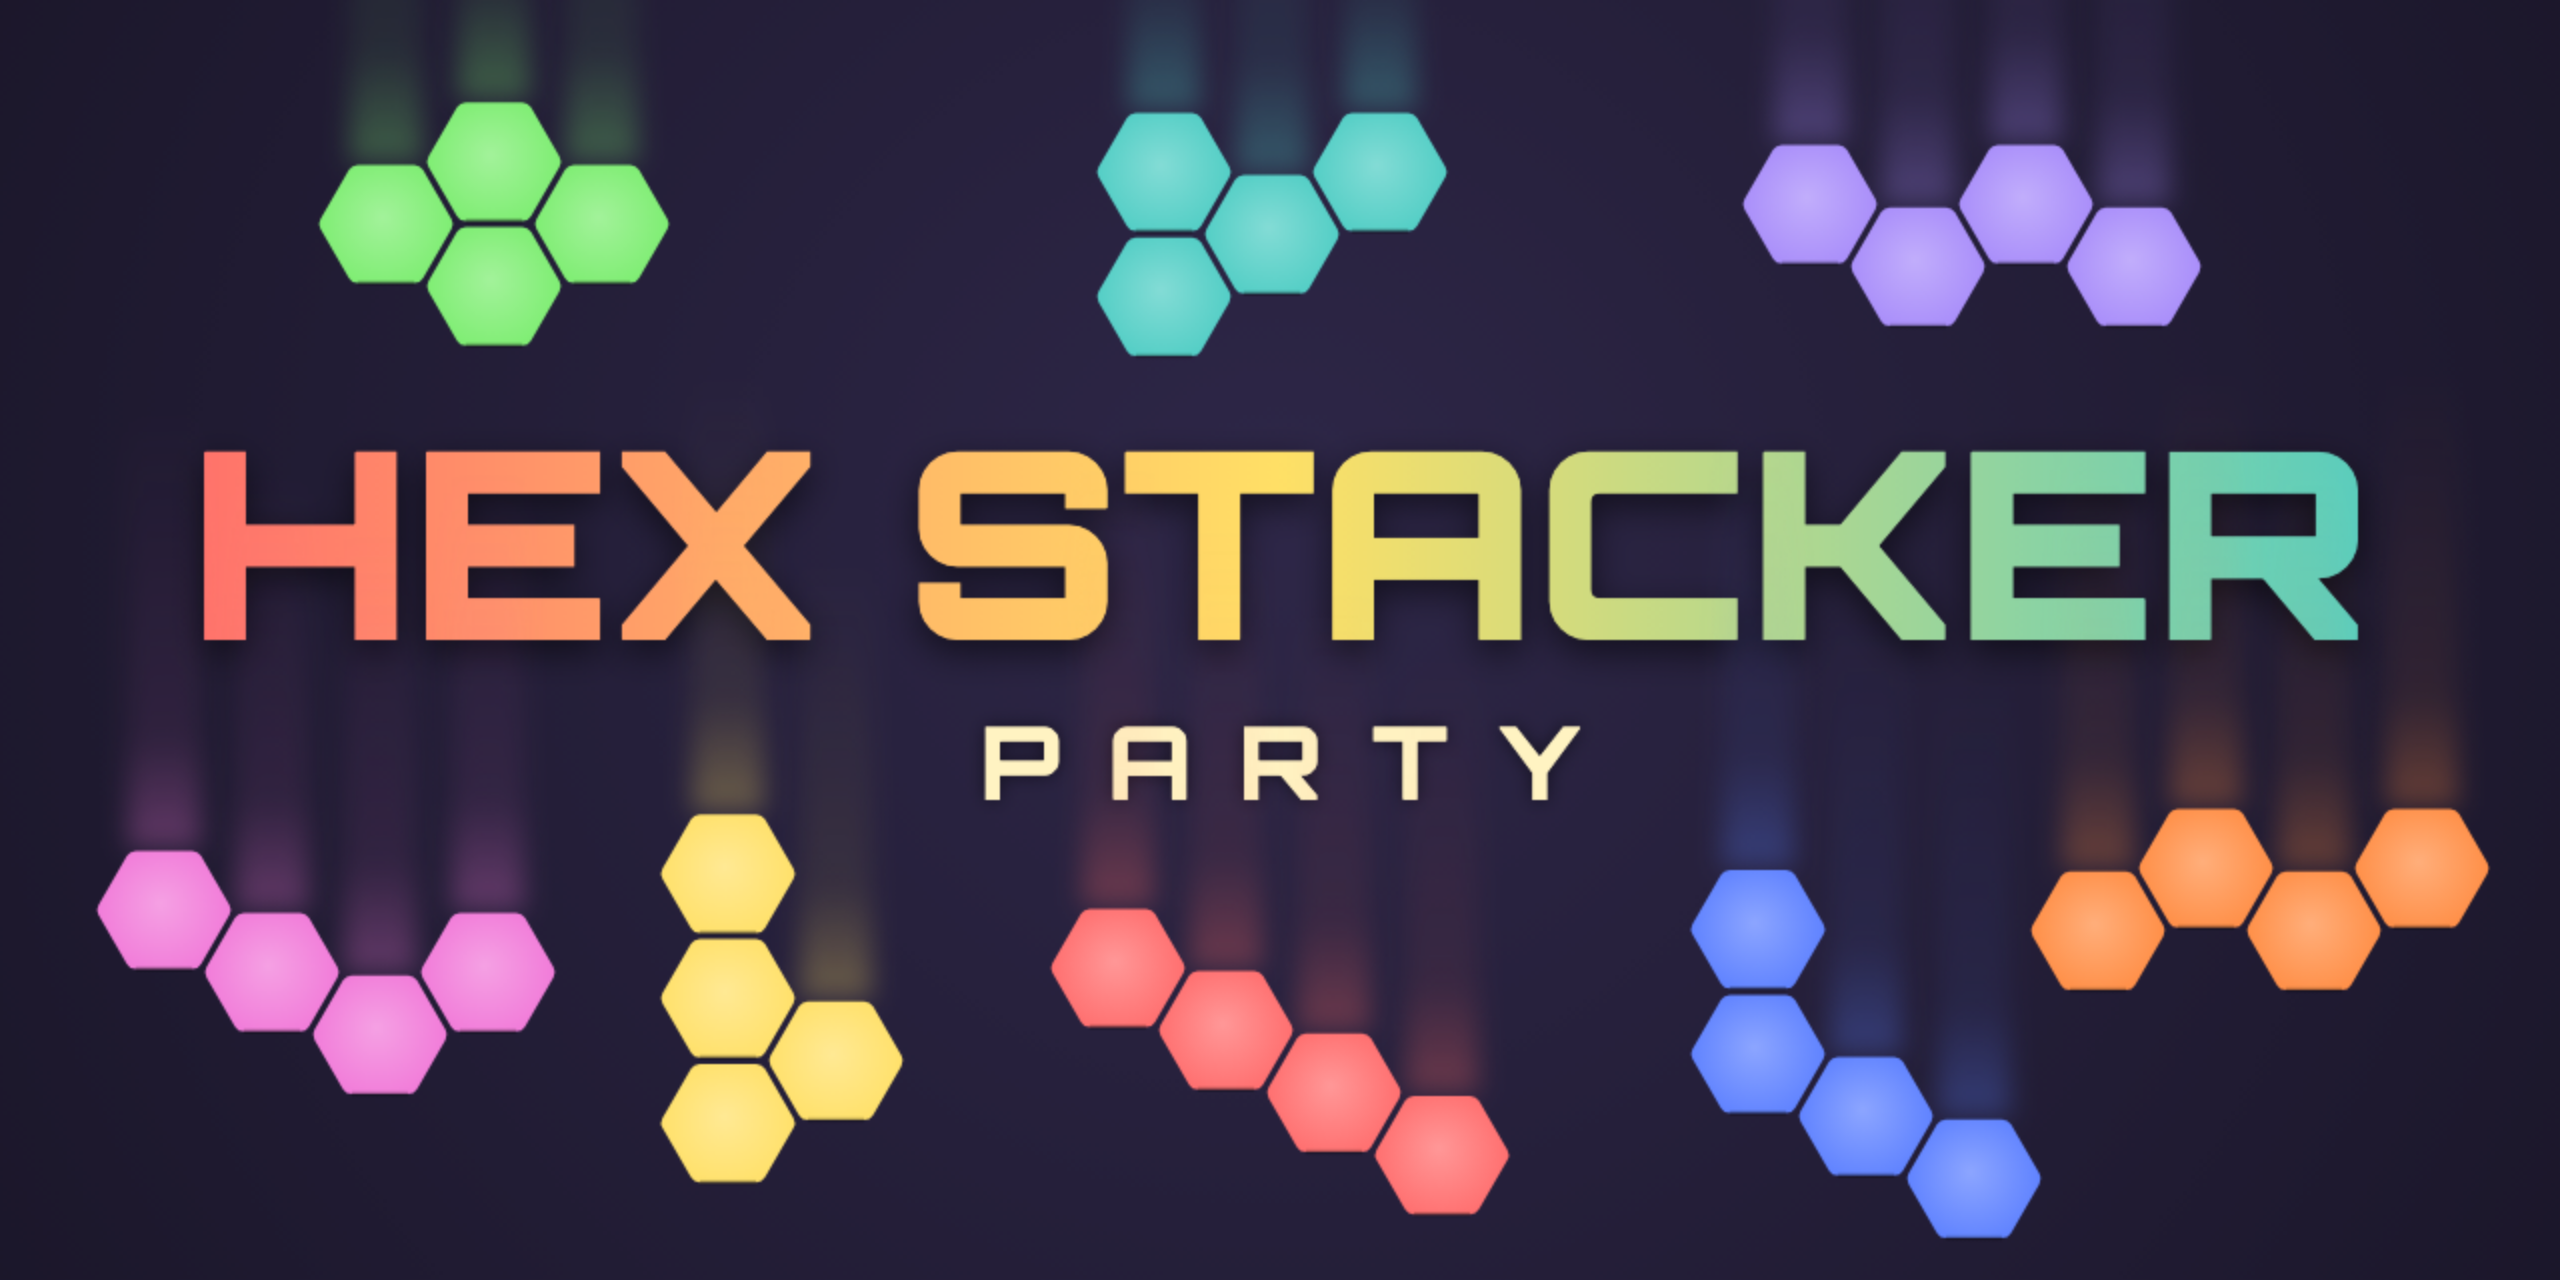
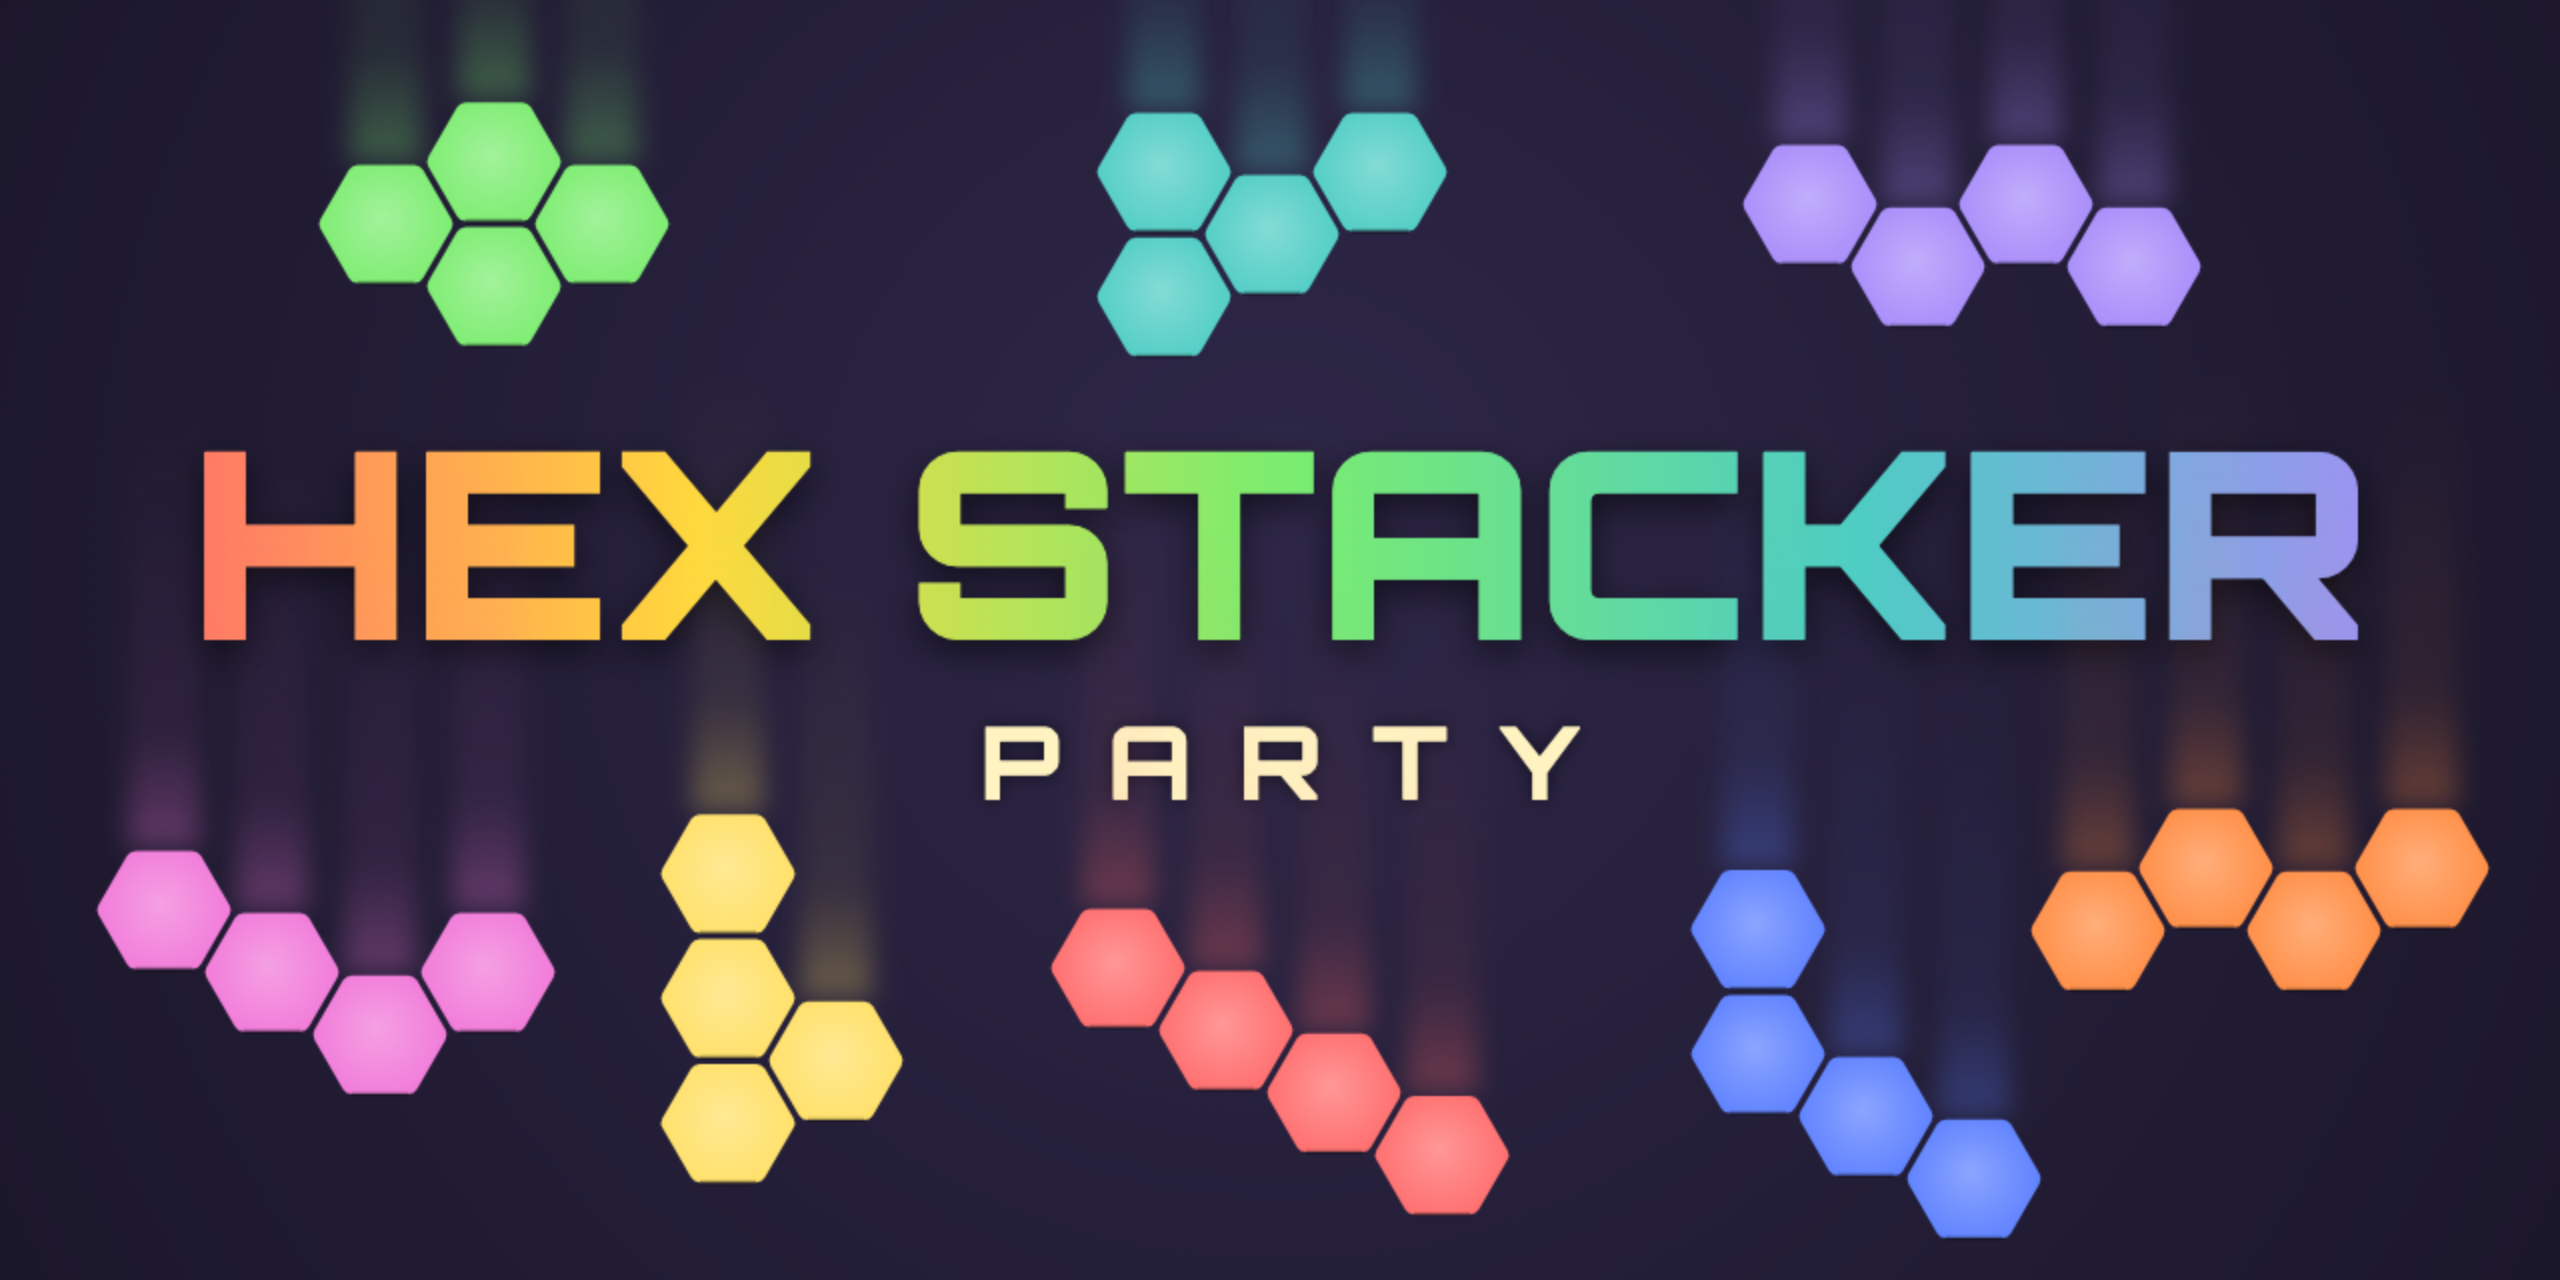
feat(theme): rainbow-bright wordmark + warm subtitle
Wordmark gradient now sweeps 5 stops across the party palette
(red → honey → mint → teal → violet) for a brighter on-brand read.
Mirrored in artwork/builder.html so the cover and social-preview
PNGs match the live UI. Subtitle "PARTY" recolored to #fff3c2
across all .gradient-title__sub usages so display, controller,
privacy, and imprint pages match the social preview's warm tone.

Changed region(s): [[0.3438, 0.3438, 0.9375, 0.5], [0.1562, 0.3438, 0.3125, 0.5]]

diff --git a/public/shared/theme.css b/public/shared/theme.css
@@ -31,12 +31,9 @@
   --accent-secondary-rgb: 255, 140, 66;   /* Slot 8 Tangerine */
   --accent-secondary: rgb(var(--accent-secondary-rgb));
   --accent-secondary-dark: #E67A33;
-  /* HEX STACKER wordmark gradient — independent of the UI accents so
-     the title reads red → honey → teal while buttons/links use their
-     own palette slots. */
-  --title-from: #FF6B6B;   /* Slot 1 Red */
-  --title-mid:  #FFE066;   /* Slot 3 Honey */
-  --title-to:   #4ECDC4;   /* Slot 2 Teal */
+  /* HEX STACKER wordmark gradient — 5-stop rainbow sweep across the
+     party palette. Hardcoded inside .gradient-title (theme.css) and
+     mirrored by titleGradient() in artwork/builder.html for canvas. */
 
   /* Text — warm cream */
   --text-primary: #F7F1E8;
@@ -292,7 +289,7 @@
   font-family: 'Orbitron', sans-serif;
   font-weight: 900;
   letter-spacing: 0.08em;
-  background: linear-gradient(135deg, var(--title-from), var(--title-mid), var(--title-to));
+  background: linear-gradient(135deg, #FF6B6B, #FFD93D, #7BED6F, #4ECDC4, #A78BFA);
   -webkit-background-clip: text;
   -webkit-text-fill-color: transparent;
   background-clip: text;
@@ -306,9 +303,10 @@
   letter-spacing: 0.35em;
   margin-top: 0.25em;
   text-transform: uppercase;
-  /* Opt out of the parent's background-clip:text trick so the subtitle renders */
+  /* Opt out of the parent's background-clip:text trick so the subtitle renders.
+     Color matches the social-preview PARTY subtitle (artwork/builder.html). */
   -webkit-text-fill-color: currentColor;
-  color: var(--text-secondary);
+  color: #fff3c2;
 }
 
 .pause-icon {

diff --git a/artwork/builder.html b/artwork/builder.html
@@ -831,11 +831,15 @@
     }
   }
 
-  function titleGradient(ctx, W, fromColor, midColor, toColor) {
+  function titleGradient(ctx, W) {
+    // Mirrors .gradient-title in public/shared/theme.css — 5-stop rainbow
+    // sweep across the party palette (red → honey → mint → teal → violet).
     const g = ctx.createLinearGradient(60, 0, W - 60, 0);
-    g.addColorStop(0,   fromColor || '#FF6B6B');
-    g.addColorStop(0.5, midColor  || '#FFE066');
-    g.addColorStop(1,   toColor   || '#4ECDC4');
+    g.addColorStop(0,    '#FF6B6B');
+    g.addColorStop(0.25, '#FFD93D');
+    g.addColorStop(0.5,  '#7BED6F');
+    g.addColorStop(0.75, '#4ECDC4');
+    g.addColorStop(1,    '#A78BFA');
     return g;
   }
 
